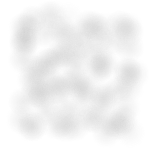
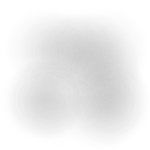
Another pass on fog (using different styles for blending layers), fine with it for now

diff --git a/IceBlink2/ScreenMainMap.cs b/IceBlink2/ScreenMainMap.cs
@@ -436,7 +436,7 @@ namespace IceBlink2
                 int iLimit = 0;
                 if (gv.fogType.Contains("lightFog") || gv.fogType.Contains("LightFog"))
                 {
-                    iLimit = 2;
+                    iLimit = 4;
                 }
                 else if (gv.fogType.Contains("heavyFog") || gv.fogType.Contains("HeavyFog"))
                 {
@@ -444,7 +444,7 @@ namespace IceBlink2
                 }
                 else if (gv.fogType.Contains("fog") || gv.fogType.Contains("Fog"))
                 {
-                    iLimit = 4;
+                    iLimit = 6;
                 }
 
                 for (int i = 0; i < iLimit; i++)
